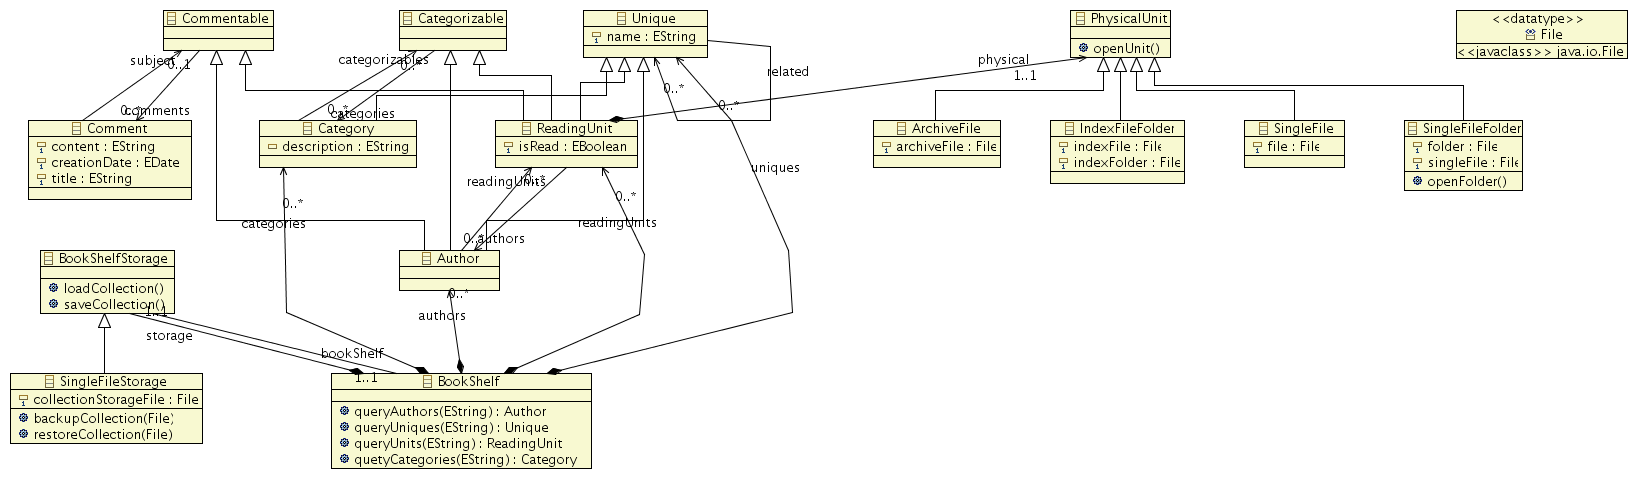
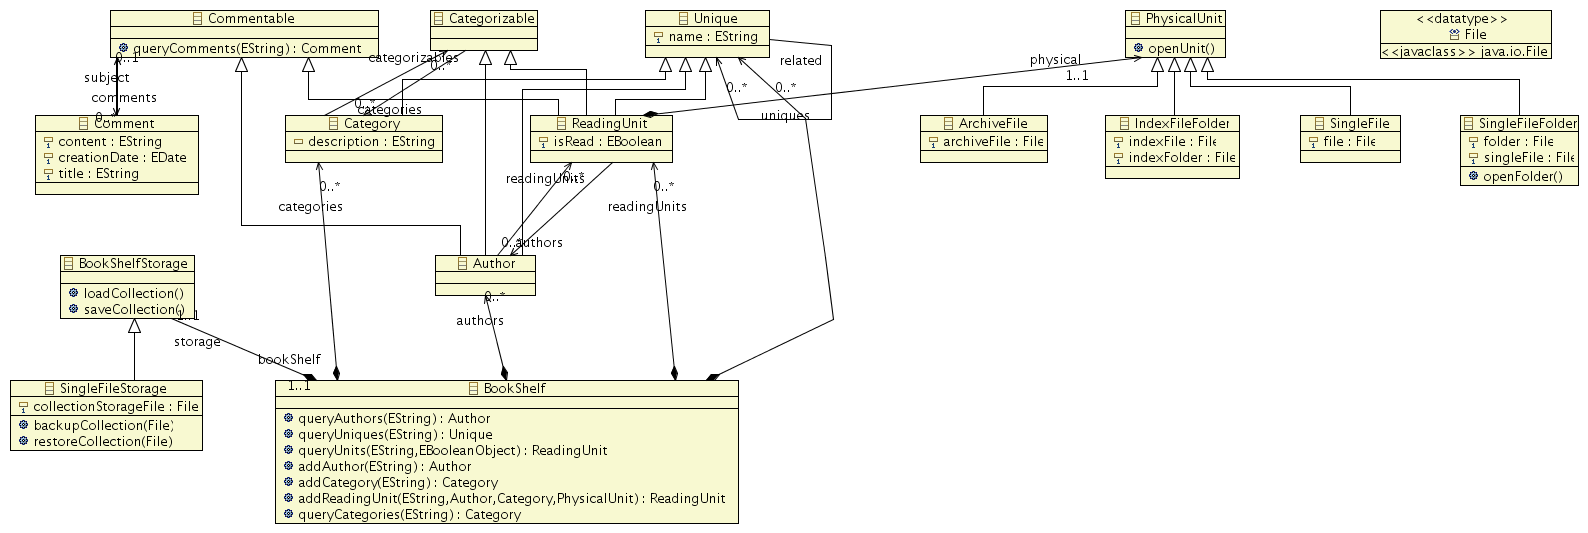
added methods

diff --git a/projects/JBookShelfModel/src/org/jbookshelf/impl/JbookshelfPackageImpl.java b/projects/JBookShelfModel/src/org/jbookshelf/impl/JbookshelfPackageImpl.java
@@ -820,6 +820,9 @@ public class JbookshelfPackageImpl extends EPackageImpl implements JbookshelfPac
         initEClass(commentableEClass, Commentable.class, "Commentable", !IS_ABSTRACT, !IS_INTERFACE, IS_GENERATED_INSTANCE_CLASS);
         initEReference(getCommentable_Comments(), this.getComment(), null, "comments", null, 0, -1, Commentable.class, !IS_TRANSIENT, !IS_VOLATILE, IS_CHANGEABLE, !IS_COMPOSITE, IS_RESOLVE_PROXIES, !IS_UNSETTABLE, IS_UNIQUE, !IS_DERIVED, IS_ORDERED);
 
+        EOperation op = addEOperation(commentableEClass, this.getComment(), "queryComments", 0, -1, IS_UNIQUE, IS_ORDERED);
+        addEParameter(op, ecorePackage.getEString(), "query", 0, 1, IS_UNIQUE, IS_ORDERED);
+
         initEClass(categorizableEClass, Categorizable.class, "Categorizable", !IS_ABSTRACT, !IS_INTERFACE, IS_GENERATED_INSTANCE_CLASS);
         initEReference(getCategorizable_Categories(), this.getCategory(), null, "categories", null, 0, -1, Categorizable.class, !IS_TRANSIENT, !IS_VOLATILE, IS_CHANGEABLE, !IS_COMPOSITE, IS_RESOLVE_PROXIES, !IS_UNSETTABLE, IS_UNIQUE, !IS_DERIVED, IS_ORDERED);
 
@@ -834,7 +837,22 @@ public class JbookshelfPackageImpl extends EPackageImpl implements JbookshelfPac
         initEReference(getBookShelf_ReadingUnits(), this.getReadingUnit(), null, "readingUnits", null, 0, -1, BookShelf.class, !IS_TRANSIENT, !IS_VOLATILE, IS_CHANGEABLE, IS_COMPOSITE, !IS_RESOLVE_PROXIES, !IS_UNSETTABLE, IS_UNIQUE, !IS_DERIVED, IS_ORDERED);
         initEReference(getBookShelf_Storage(), this.getBookShelfStorage(), this.getBookShelfStorage_BookShelf(), "storage", null, 1, 1, BookShelf.class, !IS_TRANSIENT, !IS_VOLATILE, IS_CHANGEABLE, IS_COMPOSITE, !IS_RESOLVE_PROXIES, !IS_UNSETTABLE, IS_UNIQUE, !IS_DERIVED, IS_ORDERED);
 
-        EOperation op = addEOperation(bookShelfEClass, this.getAuthor(), "queryAuthors", 0, -1, IS_UNIQUE, IS_ORDERED);
+        op = addEOperation(bookShelfEClass, this.getAuthor(), "addAuthor", 0, 1, IS_UNIQUE, IS_ORDERED);
+        addEParameter(op, ecorePackage.getEString(), "name", 0, 1, IS_UNIQUE, IS_ORDERED);
+
+        op = addEOperation(bookShelfEClass, this.getCategory(), "addCategory", 0, 1, IS_UNIQUE, IS_ORDERED);
+        addEParameter(op, ecorePackage.getEString(), "name", 0, 1, IS_UNIQUE, IS_ORDERED);
+
+        op = addEOperation(bookShelfEClass, this.getReadingUnit(), "addReadingUnit", 0, 1, IS_UNIQUE, IS_ORDERED);
+        addEParameter(op, ecorePackage.getEString(), "name", 0, 1, IS_UNIQUE, IS_ORDERED);
+        addEParameter(op, this.getAuthor(), "author", 0, 1, IS_UNIQUE, IS_ORDERED);
+        addEParameter(op, this.getCategory(), "category", 0, 1, IS_UNIQUE, IS_ORDERED);
+        addEParameter(op, this.getPhysicalUnit(), "physicalUnit", 0, 1, IS_UNIQUE, IS_ORDERED);
+
+        op = addEOperation(bookShelfEClass, this.getAuthor(), "queryAuthors", 0, -1, IS_UNIQUE, IS_ORDERED);
+        addEParameter(op, ecorePackage.getEString(), "query", 0, 1, IS_UNIQUE, IS_ORDERED);
+
+        op = addEOperation(bookShelfEClass, this.getCategory(), "queryCategories", 0, -1, IS_UNIQUE, IS_ORDERED);
         addEParameter(op, ecorePackage.getEString(), "query", 0, 1, IS_UNIQUE, IS_ORDERED);
 
         op = addEOperation(bookShelfEClass, this.getUnique(), "queryUniques", 0, -1, IS_UNIQUE, IS_ORDERED);
@@ -843,9 +861,6 @@ public class JbookshelfPackageImpl extends EPackageImpl implements JbookshelfPac
         op = addEOperation(bookShelfEClass, this.getReadingUnit(), "queryUnits", 0, -1, IS_UNIQUE, IS_ORDERED);
         addEParameter(op, ecorePackage.getEString(), "query", 0, 1, IS_UNIQUE, IS_ORDERED);
         addEParameter(op, ecorePackage.getEBooleanObject(), "isRead", 0, 1, IS_UNIQUE, IS_ORDERED);
-
-        op = addEOperation(bookShelfEClass, this.getCategory(), "quetyCategories", 0, -1, IS_UNIQUE, IS_ORDERED);
-        addEParameter(op, ecorePackage.getEString(), "query", 0, 1, IS_UNIQUE, IS_ORDERED);
 
         initEClass(archiveFileEClass, ArchiveFile.class, "ArchiveFile", !IS_ABSTRACT, !IS_INTERFACE, IS_GENERATED_INSTANCE_CLASS);
         initEAttribute(getArchiveFile_ArchiveFile(), this.getFile(), "archiveFile", null, 1, 1, ArchiveFile.class, !IS_TRANSIENT, !IS_VOLATILE, IS_CHANGEABLE, !IS_UNSETTABLE, !IS_ID, IS_UNIQUE, !IS_DERIVED, IS_ORDERED);

diff --git a/projects/JBookShelfModel/src/org/jbookshelf/impl/BookShelfImpl.java b/projects/JBookShelfModel/src/org/jbookshelf/impl/BookShelfImpl.java
@@ -27,6 +27,7 @@ import org.jbookshelf.BookShelf;
 import org.jbookshelf.BookShelfStorage;
 import org.jbookshelf.Category;
 import org.jbookshelf.JbookshelfPackage;
+import org.jbookshelf.PhysicalUnit;
 import org.jbookshelf.ReadingUnit;
 import org.jbookshelf.Unique;
 
@@ -227,6 +228,42 @@ public class BookShelfImpl extends EObjectImpl implements BookShelf
      * <!-- end-user-doc -->
      * @generated
      */
+    public Author addAuthor(String name)
+    {
+        // TODO: implement this method
+        // Ensure that you remove @generated or mark it @generated NOT
+        throw new UnsupportedOperationException();
+    }
+
+    /**
+     * <!-- begin-user-doc -->
+     * <!-- end-user-doc -->
+     * @generated
+     */
+    public Category addCategory(String name)
+    {
+        // TODO: implement this method
+        // Ensure that you remove @generated or mark it @generated NOT
+        throw new UnsupportedOperationException();
+    }
+
+    /**
+     * <!-- begin-user-doc -->
+     * <!-- end-user-doc -->
+     * @generated
+     */
+    public ReadingUnit addReadingUnit(String name, Author author, Category category, PhysicalUnit physicalUnit)
+    {
+        // TODO: implement this method
+        // Ensure that you remove @generated or mark it @generated NOT
+        throw new UnsupportedOperationException();
+    }
+
+    /**
+     * <!-- begin-user-doc -->
+     * <!-- end-user-doc -->
+     * @generated
+     */
     public EList<Author> queryAuthors(String query)
     {
         // TODO: implement this method
@@ -252,18 +289,6 @@ public class BookShelfImpl extends EObjectImpl implements BookShelf
      * @generated
      */
     public EList<ReadingUnit> queryUnits(String query, Boolean isRead)
-    {
-        // TODO: implement this method
-        // Ensure that you remove @generated or mark it @generated NOT
-        throw new UnsupportedOperationException();
-    }
-
-    /**
-     * <!-- begin-user-doc -->
-     * <!-- end-user-doc -->
-     * @generated
-     */
-    public EList<Category> quetyCategories(String query)
     {
         // TODO: implement this method
         // Ensure that you remove @generated or mark it @generated NOT
@@ -310,6 +335,18 @@ public class BookShelfImpl extends EObjectImpl implements BookShelf
                 return basicSetStorage(null, msgs);
         }
         return super.eInverseRemove(otherEnd, featureID, msgs);
+    }
+
+    /**
+     * <!-- begin-user-doc -->
+     * <!-- end-user-doc -->
+     * @generated
+     */
+    public EList<Category> queryCategories(String query)
+    {
+        // TODO: implement this method
+        // Ensure that you remove @generated or mark it @generated NOT
+        throw new UnsupportedOperationException();
     }
 
     /**

diff --git a/projects/JBookShelfModel/src/org/jbookshelf/BookShelf.java b/projects/JBookShelfModel/src/org/jbookshelf/BookShelf.java
@@ -14,6 +14,36 @@ public interface BookShelf
         EObject
 {
     /**
+     * @param name new {@link Author} name
+     * @return new {@link Author}
+     * @model
+     */
+    Author addAuthor(
+        String name );
+
+    /**
+     * @param name new {@link Category} name
+     * @return new {@link Category}
+     * @model
+     */
+    Category addCategory(
+        String name );
+
+    /**
+     * @param name new {@link ReadingUnit} name
+     * @param author unit's author (optional, if null then will be set "Unknown")
+     * @param category units's category (optional)
+     * @param physicalUnit unit's storage
+     * @return new {@link ReadingUnit}
+     * @model
+     */
+    ReadingUnit addReadingUnit(
+        String name,
+        Author author,
+        Category category,
+        PhysicalUnit physicalUnit );
+
+    /**
      * @return all authors in collection
      * @model
      */
@@ -52,6 +82,14 @@ public interface BookShelf
         String query );
 
     /**
+     * <!-- begin-user-doc --> <!-- end-user-doc -->
+     * @model
+     * @generated
+     */
+    EList<Category> queryCategories(
+        String query );
+
+    /**
      * @param query search text
      * @return all uniques, whose data contains text
      * @model
@@ -68,14 +106,6 @@ public interface BookShelf
     EList<ReadingUnit> queryUnits(
         String query,
         Boolean isRead );
-
-    /**
-     * @param query search text
-     * @return categories, whose data contains text
-     * @model
-     */
-    EList<Category> quetyCategories(
-        String query );
 
     /**
      * Sets the value of the '{@link org.jbookshelf.BookShelf#getStorage <em>Storage</em>}' reference. <!--

diff --git a/projects/JBookShelfModel/src/org/jbookshelf/impl/ReadingUnitImpl.java b/projects/JBookShelfModel/src/org/jbookshelf/impl/ReadingUnitImpl.java
@@ -231,6 +231,18 @@ public class ReadingUnitImpl extends UniqueImpl implements ReadingUnit
      * <!-- end-user-doc -->
      * @generated
      */
+    public EList<Comment> queryComments(String query)
+    {
+        // TODO: implement this method
+        // Ensure that you remove @generated or mark it @generated NOT
+        throw new UnsupportedOperationException();
+    }
+
+    /**
+     * <!-- begin-user-doc -->
+     * <!-- end-user-doc -->
+     * @generated
+     */
     @Override
     public NotificationChain eInverseRemove(InternalEObject otherEnd, int featureID, NotificationChain msgs)
     {

diff --git a/projects/JBookShelfModel/src/org/jbookshelf/impl/CommentableImpl.java b/projects/JBookShelfModel/src/org/jbookshelf/impl/CommentableImpl.java
@@ -82,6 +82,18 @@ public class CommentableImpl extends EObjectImpl implements Commentable
      * <!-- end-user-doc -->
      * @generated
      */
+    public EList<Comment> queryComments(String query)
+    {
+        // TODO: implement this method
+        // Ensure that you remove @generated or mark it @generated NOT
+        throw new UnsupportedOperationException();
+    }
+
+    /**
+     * <!-- begin-user-doc -->
+     * <!-- end-user-doc -->
+     * @generated
+     */
     @Override
     public Object eGet(int featureID, boolean resolve, boolean coreType)
     {

diff --git a/projects/JBookShelfModel/src/org/jbookshelf/impl/AuthorImpl.java b/projects/JBookShelfModel/src/org/jbookshelf/impl/AuthorImpl.java
@@ -113,6 +113,18 @@ public class AuthorImpl extends UniqueImpl implements Author
      * <!-- end-user-doc -->
      * @generated
      */
+    public EList<Comment> queryComments(String query)
+    {
+        // TODO: implement this method
+        // Ensure that you remove @generated or mark it @generated NOT
+        throw new UnsupportedOperationException();
+    }
+
+    /**
+     * <!-- begin-user-doc -->
+     * <!-- end-user-doc -->
+     * @generated
+     */
     public EList<Category> getCategories()
     {
         if (categories == null)

diff --git a/projects/JBookShelfModel/src/org/jbookshelf/Commentable.java b/projects/JBookShelfModel/src/org/jbookshelf/Commentable.java
@@ -19,4 +19,12 @@ public interface Commentable
      */
     EList<Comment> getComments();
 
+    /**
+     * <!-- begin-user-doc -->
+     * <!-- end-user-doc -->
+     * @model
+     * @generated
+     */
+    EList<Comment> queryComments(String query);
+
 }
